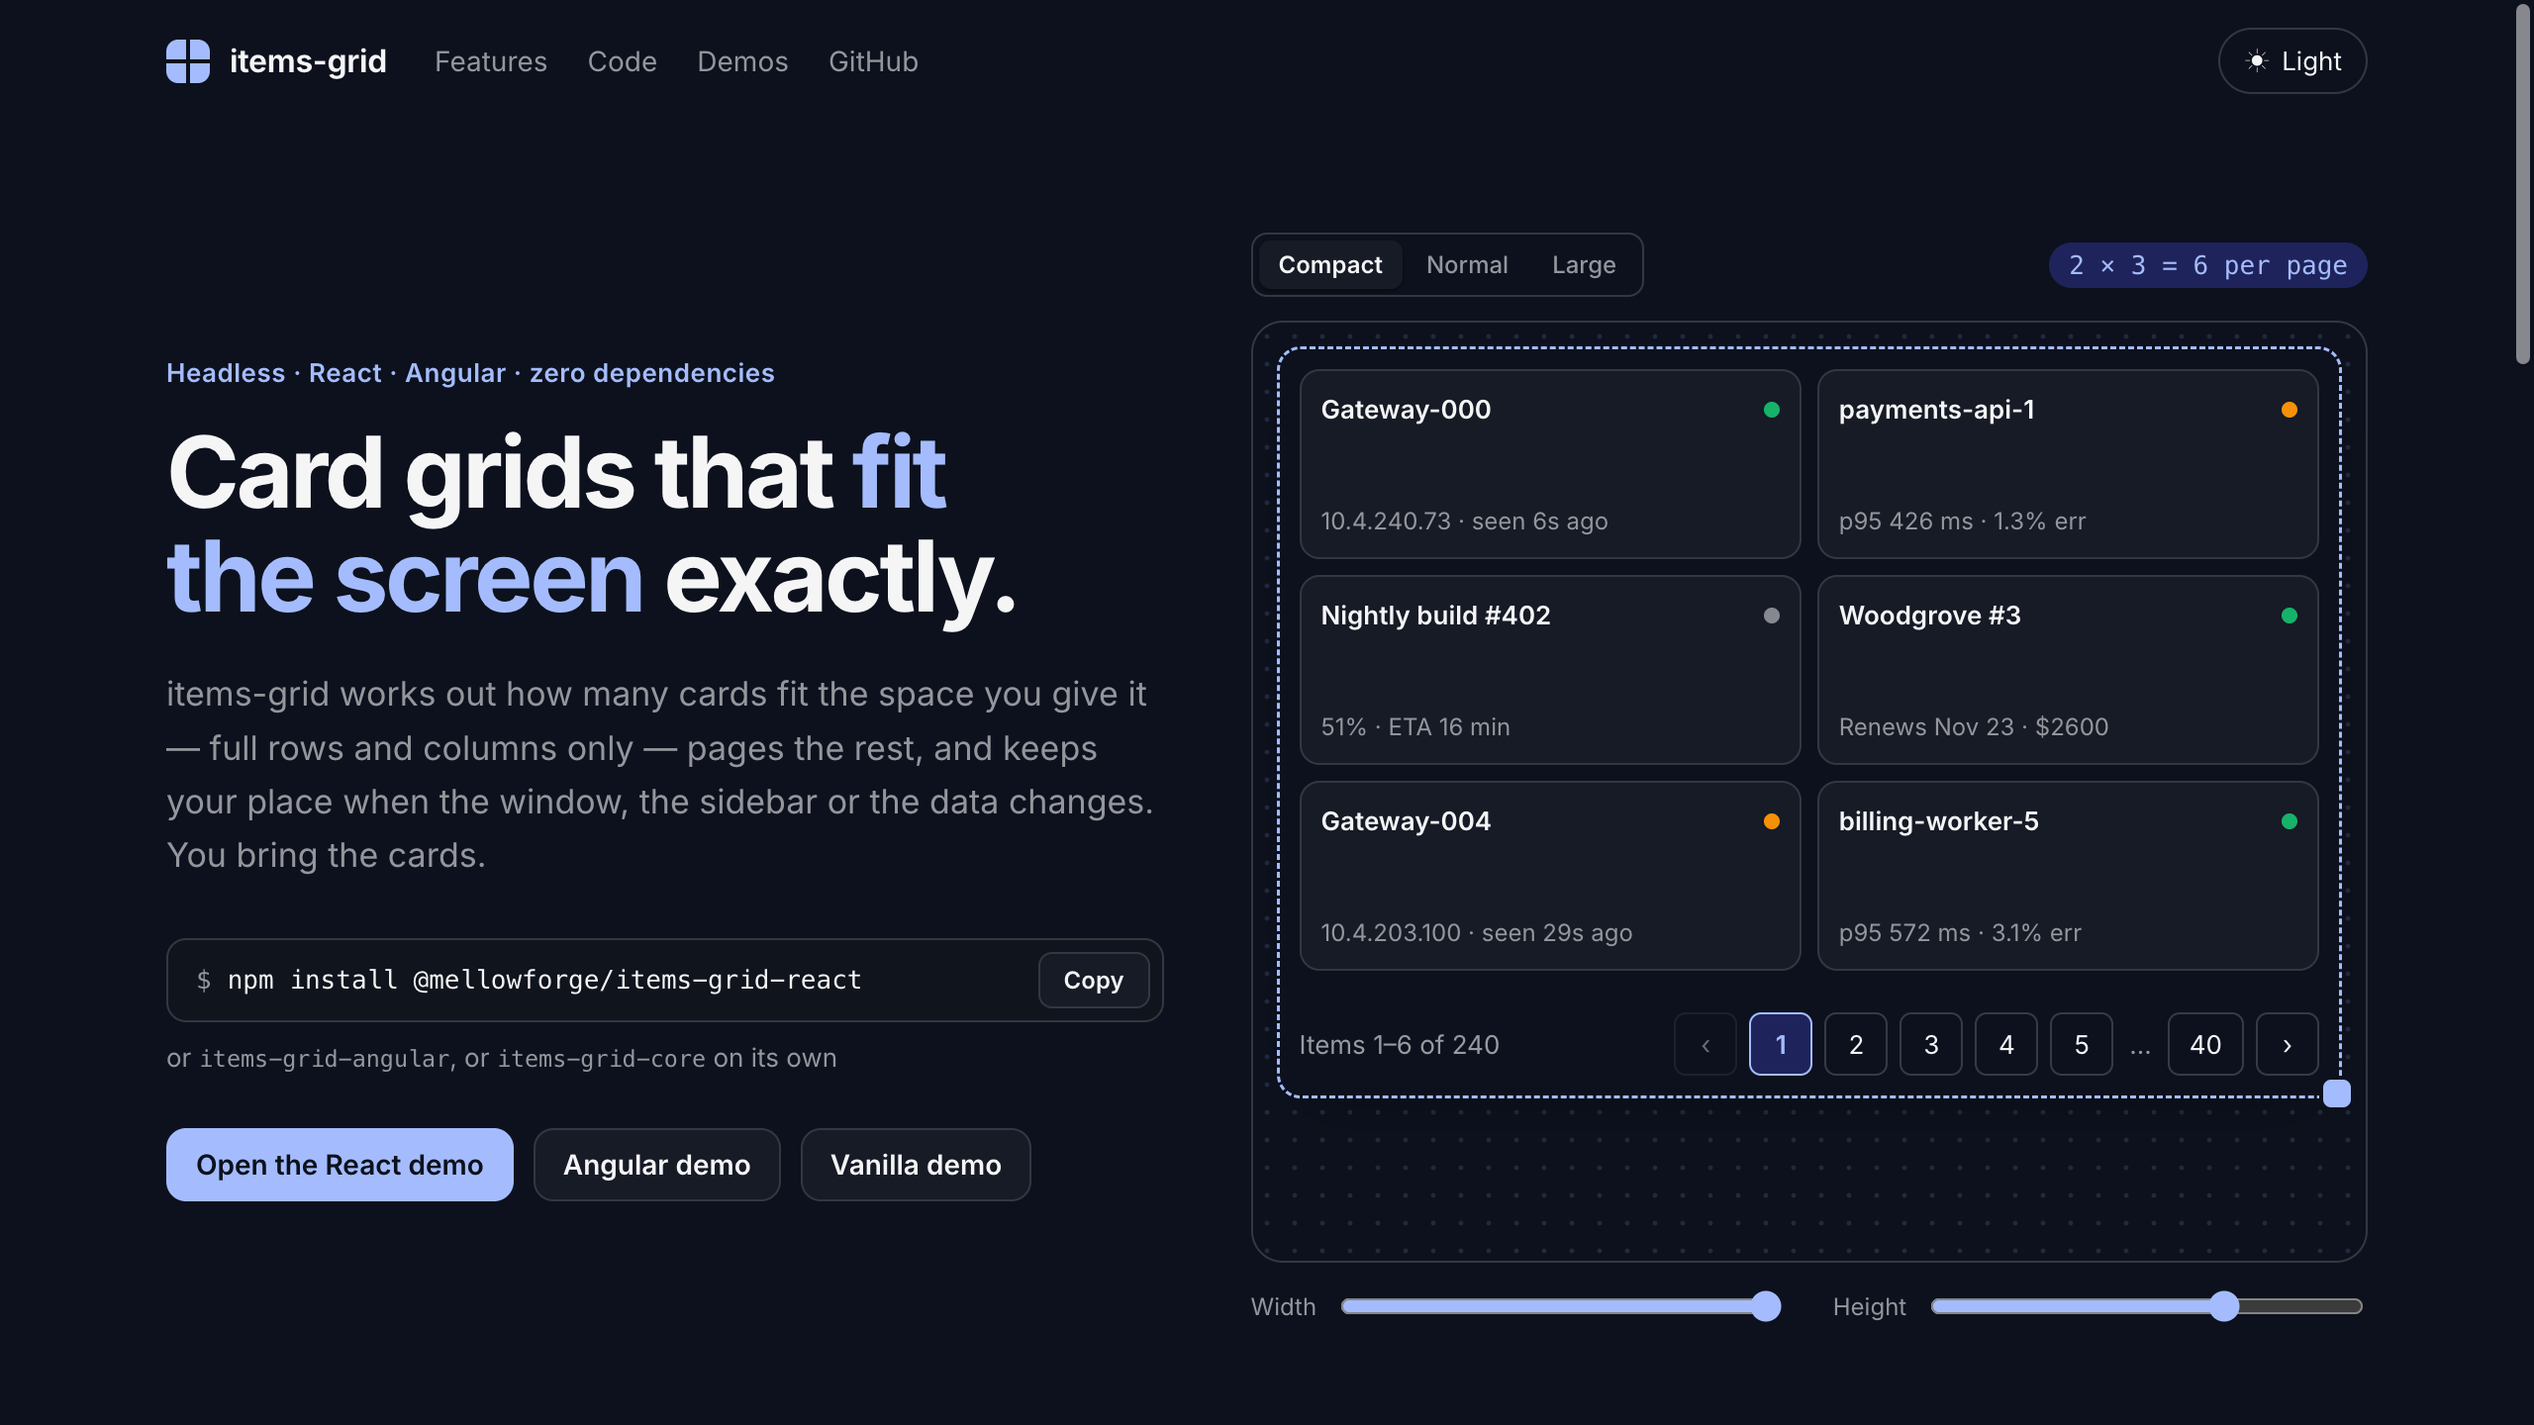
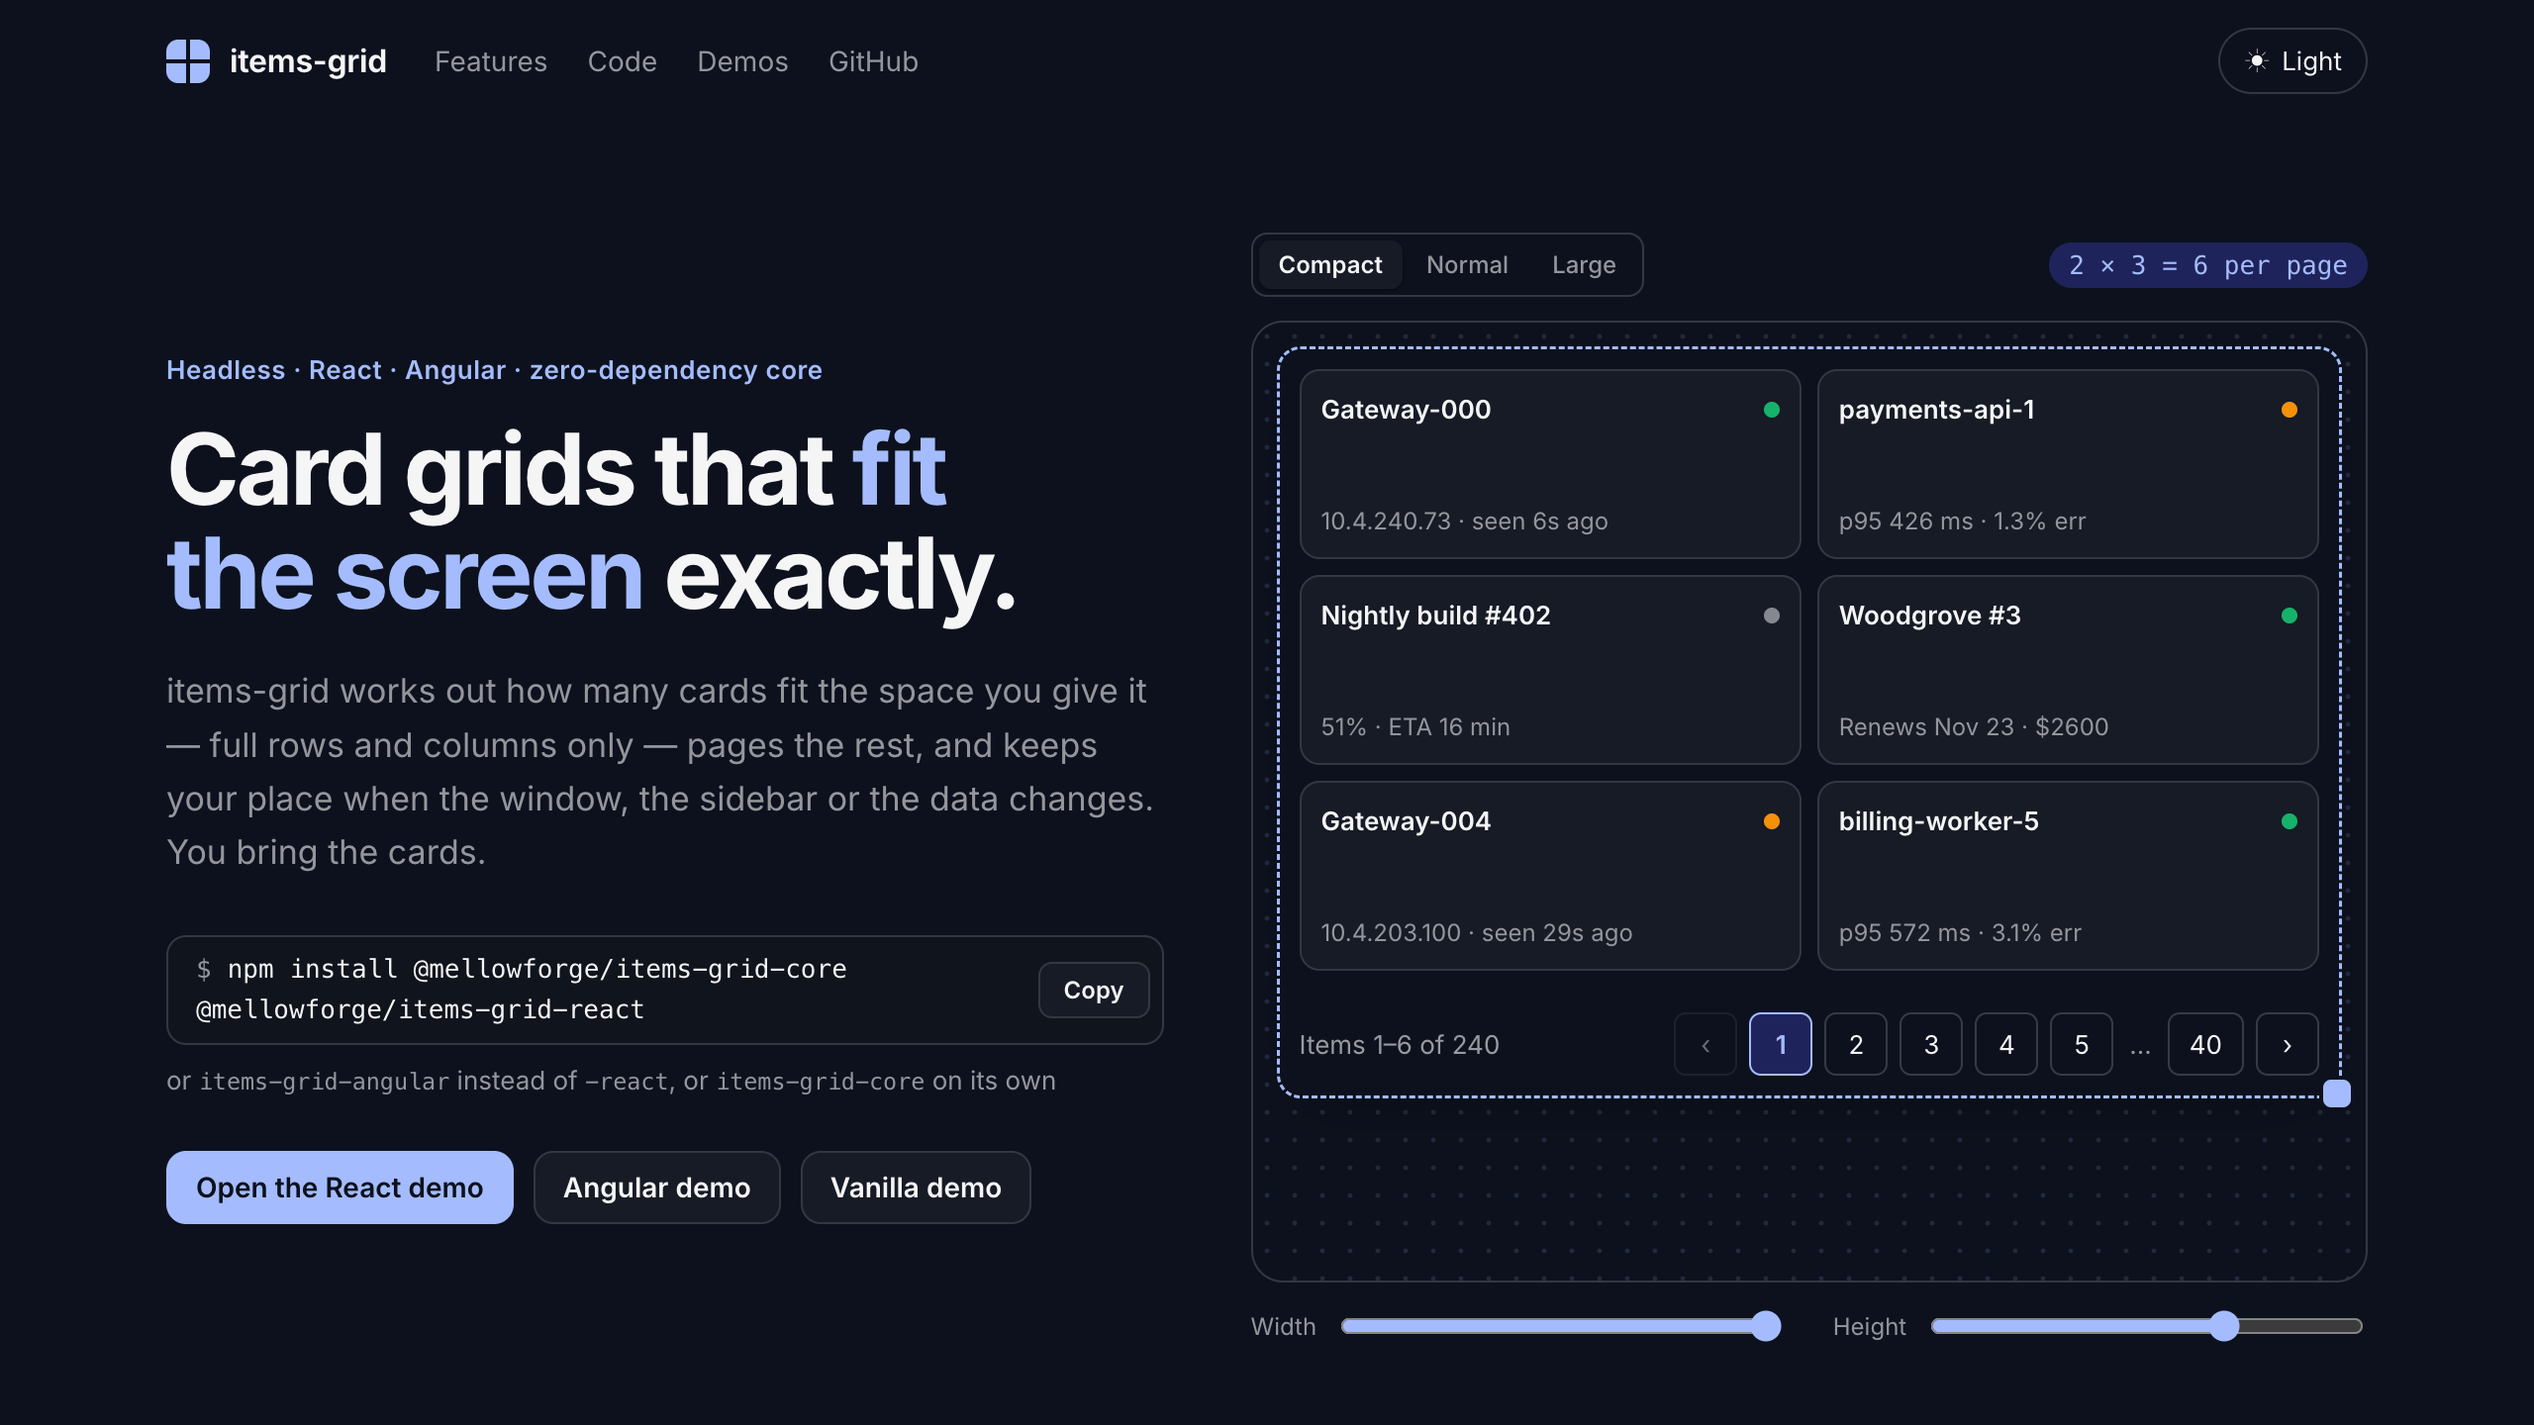
fix: one-line pager (a wrapping pager made the grid flicker); site review fixes
- Core pager theme: never wraps — its height must not depend on its content, since its width
  follows the page size and the page size follows its height (a wrapping pager flipped the
  grid between two page sizes every frame). The status truncates instead; a stylesheet spec
  pins it, and CLAUDE.md records the invariant. Compact pager for narrow grids -> BACKLOG.
- Hero: drag maths use the stage's content box (no jump, no lag); a width floor that fits the
  pager; room for the tallest frame; long install commands wrap; the theme toggle follows OS
  changes until a choice is made.
- pages.yml: pages/id-token write only on the deploy job.
- Docs: accurate claims (measured row height, card DOM in vanilla, core peer, zero-dependency
  core, Angular zoneless-ready, no Lighthouse claim), and a spec keeping the README quick start
  identical to the site examples.

diff --git a/apps/site/src/app.tsx b/apps/site/src/app.tsx
@@ -21,14 +21,14 @@ const FEATURES: readonly { title: string; body: string }[] = [
   },
   {
     title: 'Realtime without the jumps',
-    body: 'Live reflow, or a stable page that keeps its cards and counts the “N new items” for your banner. Cards keep their DOM by key, so switches and focus survive.',
+    body: 'Live reflow, or a stable page that keeps its cards and counts the “N new items” for your banner. Cards keep their DOM by key, so switches and focus survive updates.',
   },
   {
     title: 'Accessible',
     body: 'List semantics, a polite live region, a labelled pager, PageUp / PageDown — and opt-in arrow keys that move between cards without stealing keys from their controls.',
   },
   {
-    title: 'Headless, zero dependencies',
+    title: 'Headless, zero-dependency core',
     body: 'A pure engine with a vanilla mount and thin React and Angular adapters. You render the cards; the library never ships card markup or card styles.',
   },
 ];
@@ -75,7 +75,7 @@ export function App(): ReactElement {
       <main id="main">
         <section className="hero" aria-labelledby="hero-title">
           <div className="hero-copy">
-            <p className="eyebrow">Headless · React · Angular · zero dependencies</p>
+            <p className="eyebrow">Headless · React · Angular · zero-dependency core</p>
             <h1 id="hero-title">
               Card grids that <em>fit the screen</em> exactly.
             </h1>
@@ -84,9 +84,10 @@ export function App(): ReactElement {
               only — pages the rest, and keeps your place when the window, the sidebar or the data
               changes. You bring the cards.
             </p>
-            <CopyCommand command="npm install @mellowforge/items-grid-react" />
+            <CopyCommand command="npm install @mellowforge/items-grid-core @mellowforge/items-grid-react" />
             <p className="hint">
-              or <code>items-grid-angular</code>, or <code>items-grid-core</code> on its own
+              or <code>items-grid-angular</code> instead of <code>-react</code>, or{' '}
+              <code>items-grid-core</code> on its own
             </p>
             <div className="cta">
               <a className="button primary" href="react/">

diff --git a/packages/core/src/styles/items-grid.css.spec.ts b/packages/core/src/styles/items-grid.css.spec.ts
@@ -1,0 +1,29 @@
+import { describe, expect, it } from 'vitest';
+
+import css from './items-grid.css?raw';
+
+/** The declarations of the first rule whose selector list is exactly `selector`. */
+function rule(selector: string): string {
+  const match = new RegExp(`(^|\\n)${selector.replace(/[.]/g, '\\.')}\\s*\\{([^}]*)\\}`).exec(css);
+  if (!match) throw new Error(`no rule for ${selector}`);
+  return match[2]!;
+}
+
+describe('items-grid.css (optional pager theme)', () => {
+  // The page size depends on the pager's height (it sits below the measured viewport), and
+  // the pager's width depends on the page size (status text, number of pages). A pager that
+  // wraps closes that loop: at some widths the grid flips between two page sizes every frame.
+  it('keeps the pager on one line, whatever its content', () => {
+    for (const selector of ['.mf-items-grid-pager', '.mf-items-grid-pager__list']) {
+      expect(rule(selector)).not.toMatch(/flex-wrap:\s*wrap/);
+    }
+    expect(rule('.mf-items-grid-pager__status')).toMatch(/white-space:\s*nowrap/);
+    expect(rule('.mf-items-grid-pager__list')).toMatch(/flex:\s*none/);
+  });
+
+  it('truncates the status instead of growing the pager', () => {
+    const status = rule('.mf-items-grid-pager__status');
+    expect(status).toMatch(/min-width:\s*0/);
+    expect(status).toMatch(/text-overflow:\s*ellipsis/);
+  });
+});

diff --git a/apps/site/src/hero-grid.tsx b/apps/site/src/hero-grid.tsx
@@ -5,7 +5,7 @@ import { type PointerEvent, type ReactElement, useRef, useState } from 'react';
 
 const ITEMS = createEntities(240);
 /** Frame width, in % of the stage. */
-const WIDTH = { min: 40, max: 100, initial: 100 };
+const WIDTH = { min: 55, max: 100, initial: 100 };
 /** Frame height, in px. */
 const HEIGHT = { min: 200, max: 460, initial: 380 };
 
@@ -78,8 +78,13 @@ export function HeroGrid(): ReactElement {
 
   const onPointerMove = (event: PointerEvent<HTMLSpanElement>): void => {
     const start = drag.current;
-    const stageWidth = stage.current?.getBoundingClientRect().width;
-    if (!start || !stageWidth) return;
+    const element = stage.current;
+    if (!start || !element) return;
+    // The frame's width is a % of the stage's content box, not of its border box.
+    const style = getComputedStyle(element);
+    const stageWidth =
+      element.clientWidth - parseFloat(style.paddingLeft) - parseFloat(style.paddingRight);
+    if (stageWidth <= 0) return;
     setWidth(clamp(((start.width + event.clientX - start.x) / stageWidth) * 100, WIDTH));
     setHeight(clamp(start.height + event.clientY - start.y, HEIGHT));
   };

diff --git a/packages/core/src/styles/items-grid.css b/packages/core/src/styles/items-grid.css
@@ -33,10 +33,10 @@
 .mf-items-grid-pager {
   display: flex;
   flex: none;
-  /* Narrow grids (phones, side panels): the buttons wrap below the status instead of
-     overflowing. The pager is outside the measured viewport, so a taller pager only
-     leaves fewer rows. */
-  flex-wrap: wrap;
+  /* Always one line: the pager's height must never depend on its content. Its width does
+     (the status text, the number of pages), and the page size depends on the pager's height,
+     so a pager that wrapped would make the grid flip between two page sizes. When space is
+     short the status truncates instead. */
   align-items: center;
   justify-content: space-between;
   gap: var(--mf-items-grid-pager-gap, 6px);
@@ -46,14 +46,17 @@
 }
 
 .mf-items-grid-pager__status {
+  min-width: 0;
+  overflow: hidden;
   color: var(--mf-items-grid-pager-muted, color-mix(in srgb, currentColor 60%, transparent));
   font-size: 0.8125rem;
   white-space: nowrap;
+  text-overflow: ellipsis;
 }
 
 .mf-items-grid-pager__list {
   display: flex;
-  flex-wrap: wrap;
+  flex: none;
   align-items: center;
   gap: var(--mf-items-grid-pager-gap, 6px);
 }

diff --git a/apps/site/src/examples.spec.ts b/apps/site/src/examples.spec.ts
@@ -1,0 +1,25 @@
+import { describe, expect, it } from 'vitest';
+
+import readme from '../../../README.md?raw';
+import angular from './examples/angular.example.ts?raw';
+import react from './examples/react.example.tsx?raw';
+import vanilla from './examples/vanilla.example.ts?raw';
+
+/** The first fenced code block of `language` after the README heading `heading`. */
+function quickStart(heading: string, language: string): string {
+  const section = readme.slice(readme.indexOf(heading));
+  const match = new RegExp('```' + language + '\\n([\\s\\S]*?)```').exec(section);
+  if (!match) throw new Error(`no ${language} block under ${heading}`);
+  return match[1]!;
+}
+
+// The landing page shows src/examples verbatim; the root README shows the same code.
+describe('quick-start examples', () => {
+  it.each([
+    ['### React', 'tsx', react],
+    ['### Angular', 'ts', angular],
+    ['### Any framework, or none', 'ts', vanilla],
+  ])('%s in the README matches the site', (heading, language, example) => {
+    expect(quickStart(heading, language).trim()).toBe(example.trim());
+  });
+});

diff --git a/apps/site/src/theme-toggle.tsx b/apps/site/src/theme-toggle.tsx
@@ -1,5 +1,5 @@
 import { applyTheme, currentTheme, restoreTheme, type Theme } from 'demo-shared';
-import { type ReactElement, useLayoutEffect, useState } from 'react';
+import { type ReactElement, useEffect, useLayoutEffect, useState } from 'react';
 
 /** Light/dark switch. Follows the OS until clicked; the choice carries over to the demos. */
 export function ThemeToggle(): ReactElement {
@@ -8,6 +8,15 @@ export function ThemeToggle(): ReactElement {
 
   useLayoutEffect(() => {
     restoreTheme();
+  }, []);
+
+  // Until the user picks one, the page follows the OS live: keep the label in step with it.
+  useEffect(() => {
+    if (typeof matchMedia !== 'function') return undefined;
+    const query = matchMedia('(prefers-color-scheme: dark)');
+    const follow = (): void => setTheme(currentTheme());
+    query.addEventListener?.('change', follow);
+    return () => query.removeEventListener?.('change', follow);
   }, []);
 
   const toggle = (): void => {

diff --git a/apps/site/src/site.css b/apps/site/src/site.css
@@ -236,10 +236,11 @@ main {
 
 .copy-command code {
   flex: 1;
-  overflow: hidden;
+  min-width: 0;
   font-size: 13px;
-  white-space: nowrap;
-  text-overflow: ellipsis;
+  line-height: 1.6;
+  /* Long installs wrap between package names rather than hide one. */
+  overflow-wrap: anywhere;
 }
 
 .copy-command .prompt {
@@ -289,7 +290,8 @@ main {
 }
 
 .hero-stage {
-  height: 476px;
+  /* Room for the tallest frame (HEIGHT.max, 460px) plus the padding. */
+  height: 486px;
   padding: 12px;
   border: 1px solid var(--border);
   border-radius: 16px;
@@ -302,6 +304,8 @@ main {
   position: relative;
   display: flex;
   flex-direction: column;
+  /* Wide enough for the one-line pager's buttons (see BACKLOG: a compact pager). */
+  min-width: min(100%, 380px);
   max-width: 100%;
   padding: 10px;
   border: 1.5px dashed var(--accent);

diff --git a/apps/site/src/examples/vanilla.example.ts b/apps/site/src/examples/vanilla.example.ts
@@ -1,4 +1,4 @@
-import '@mellowforge/items-grid-core/styles.css'; // optional pager theme
+import '@mellowforge/items-grid-core/styles.css'; // optional pager and focus-ring theme
 
 import { mountItemsGrid } from '@mellowforge/items-grid-core';
 
@@ -29,6 +29,7 @@ export function showDevices(container: HTMLElement, devices: Device[]) {
     arrowKeys: true,
     renderItem: renderDevice,
   });
-  // Realtime updates: pass a new array; cards keep their DOM by key.
+  // Realtime updates: pass a new array. Unchanged items keep their card; pass updateItem to
+  // patch a changed card in place.
   return (next: Device[]) => grid.update({ items: next });
 }

diff --git a/apps/demo-shared/src/theme.ts b/apps/demo-shared/src/theme.ts
@@ -1,6 +1,6 @@
 export type Theme = 'light' | 'dark';
 
-/** Shared by the landing page and the demos — one origin, so one choice carries over. */
+/** Shared by the landing page and the demos: on the deployed site they are one origin, so one choice carries over. */
 const STORAGE_KEY = 'items-grid-demo-theme';
 
 function storedTheme(): Theme | null {
@@ -13,7 +13,7 @@ function storedTheme(): Theme | null {
   }
 }
 
-/** The theme the page shows right now: the stored choice, else the OS preference. */
+/** The theme to start from: the stored choice, else the OS preference. */
 export function currentTheme(): Theme {
   return (
     storedTheme() ??

diff --git a/apps/site/vite.config.ts b/apps/site/vite.config.ts
@@ -29,7 +29,7 @@ export default defineConfig({
   optimizeDeps: { exclude: ['@mellowforge/items-grid-core', '@mellowforge/items-grid-react'] },
   test: {
     environment: 'jsdom',
-    include: ['src/**/*.spec.tsx'],
+    include: ['src/**/*.spec.{ts,tsx}'],
     setupFiles: ['src/test-setup.ts'],
   },
 });

diff --git a/packages/core/vitest.config.ts b/packages/core/vitest.config.ts
@@ -4,5 +4,7 @@ export default defineConfig({
   test: {
     environment: 'jsdom',
     include: ['src/**/*.spec.ts'],
+    // items-grid.css.spec.ts reads the stylesheet through `?raw`; vitest skips CSS otherwise.
+    css: { include: [/items-grid\.css/] },
   },
 });

diff --git a/apps/site/src/examples/react.example.tsx b/apps/site/src/examples/react.example.tsx
@@ -1,4 +1,4 @@
-import '@mellowforge/items-grid-core/styles.css'; // optional pager theme
+import '@mellowforge/items-grid-core/styles.css'; // optional pager and focus-ring theme
 
 import { ItemsGrid } from '@mellowforge/items-grid-react';
 
